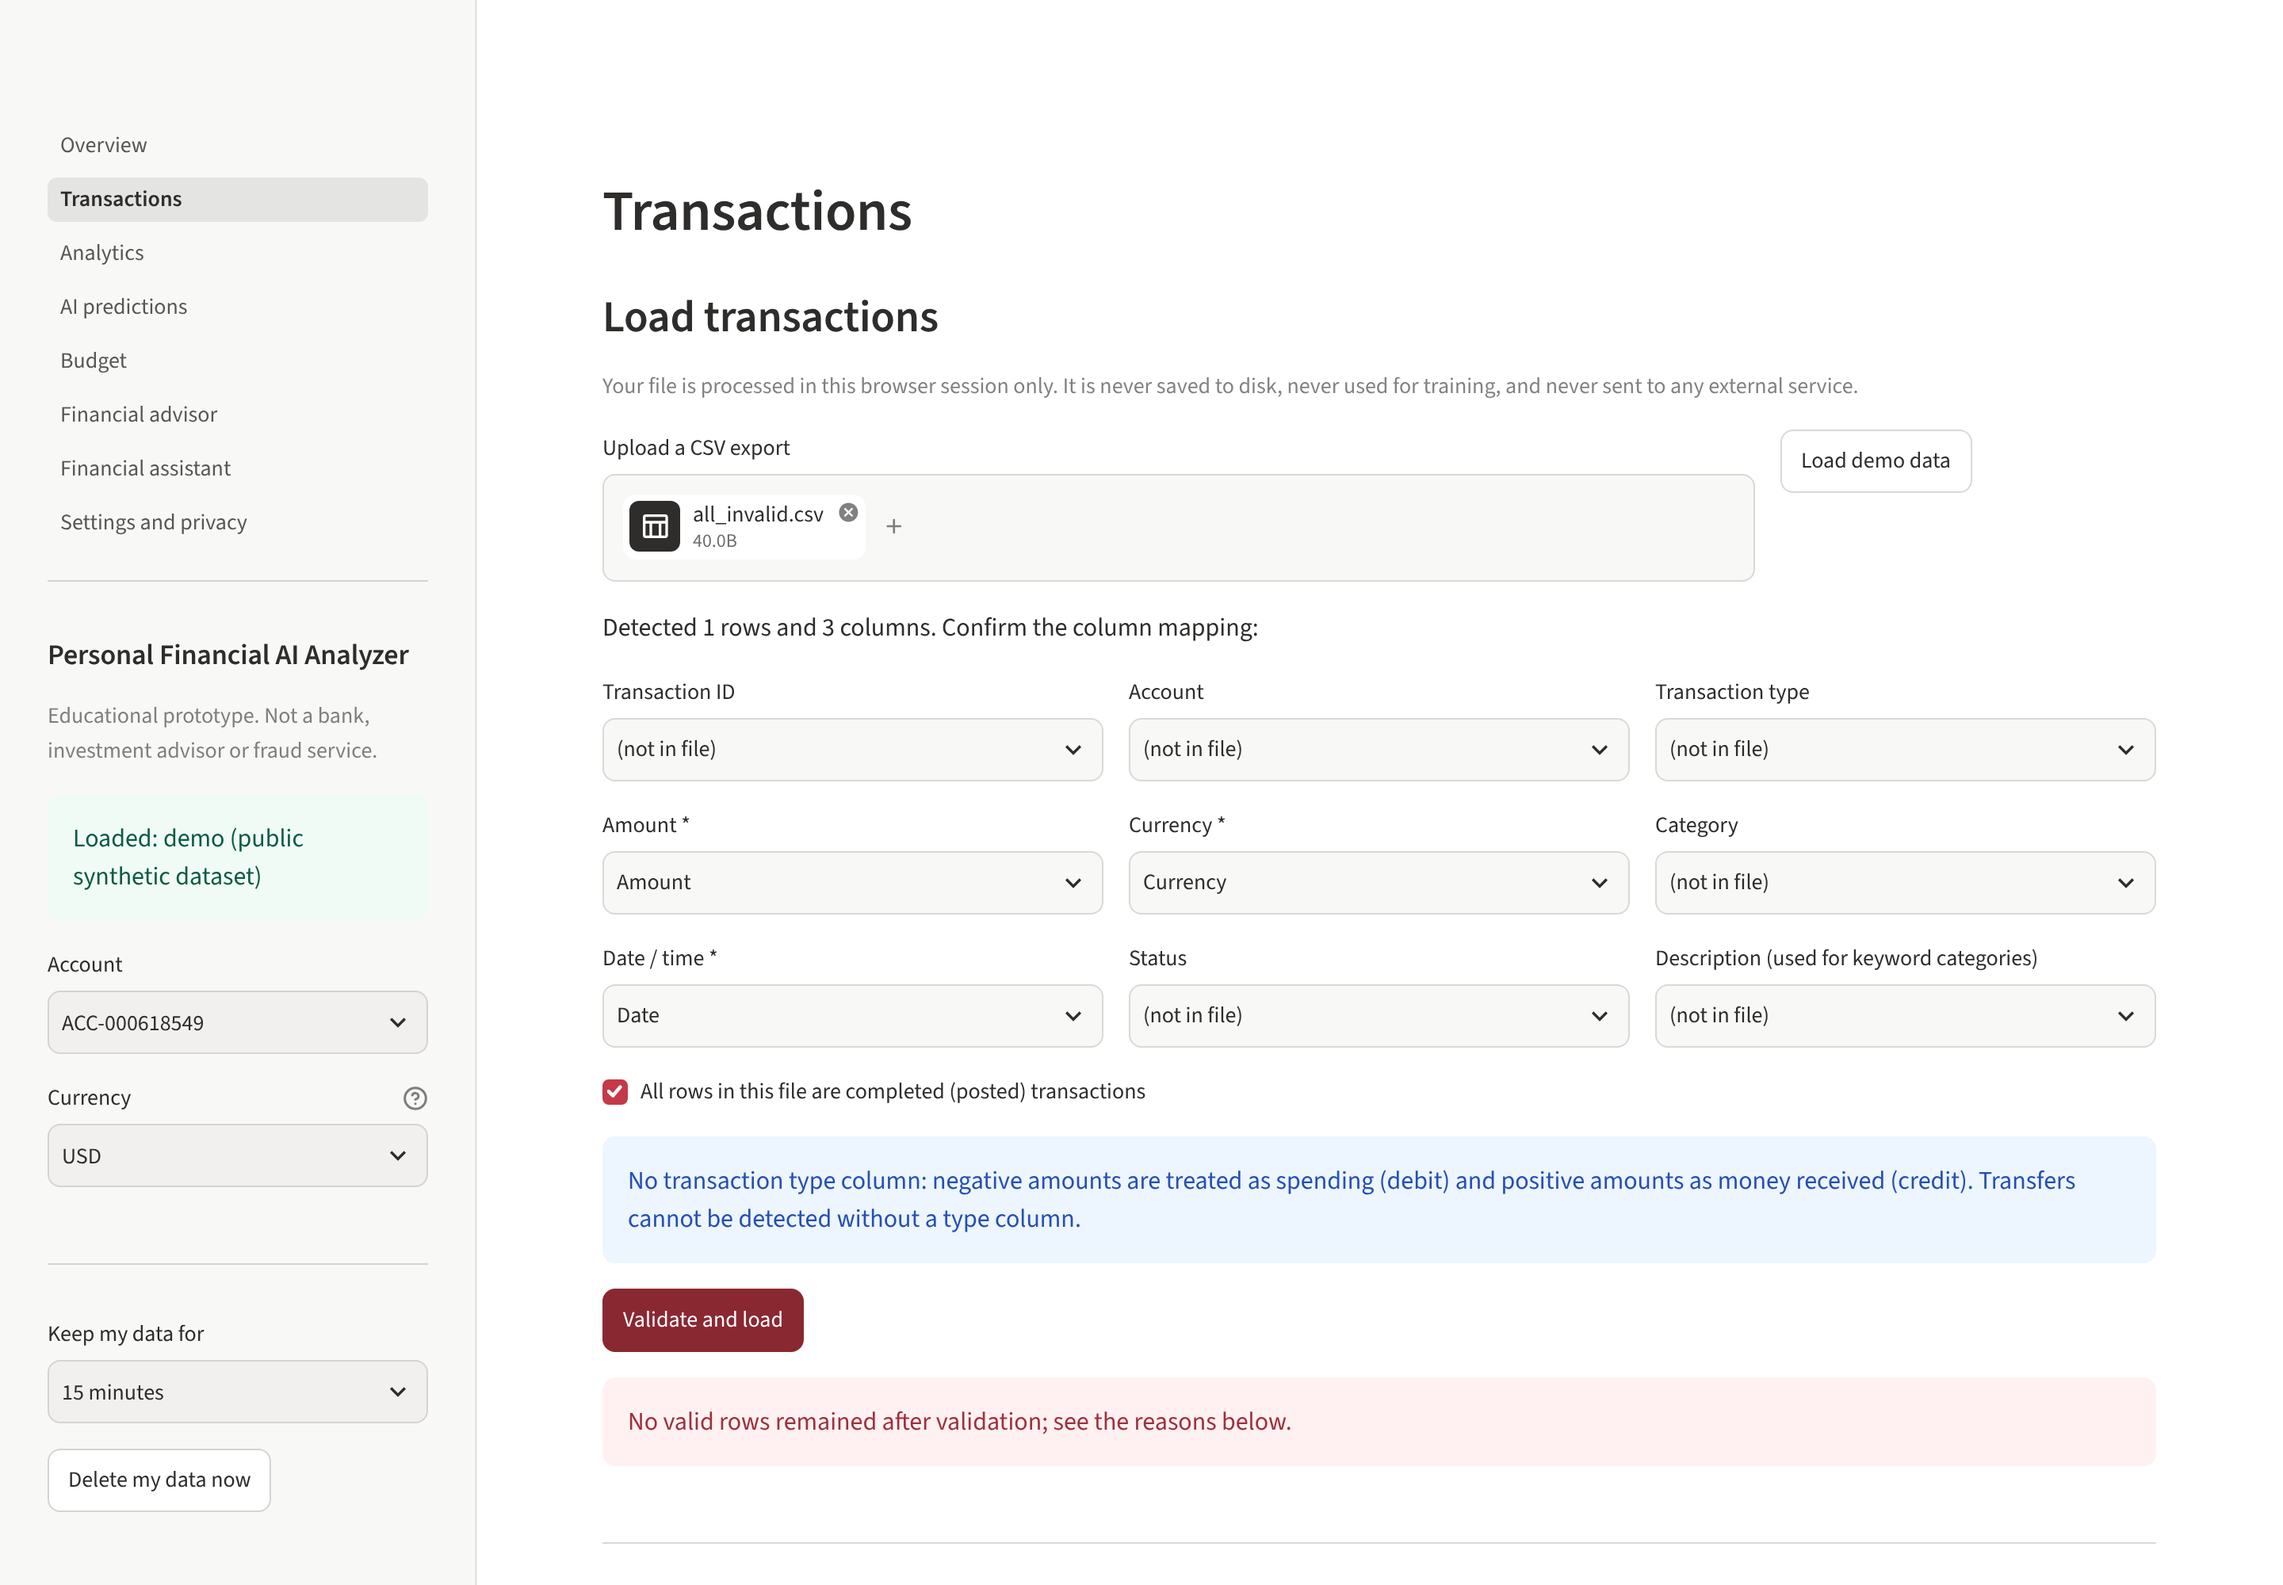
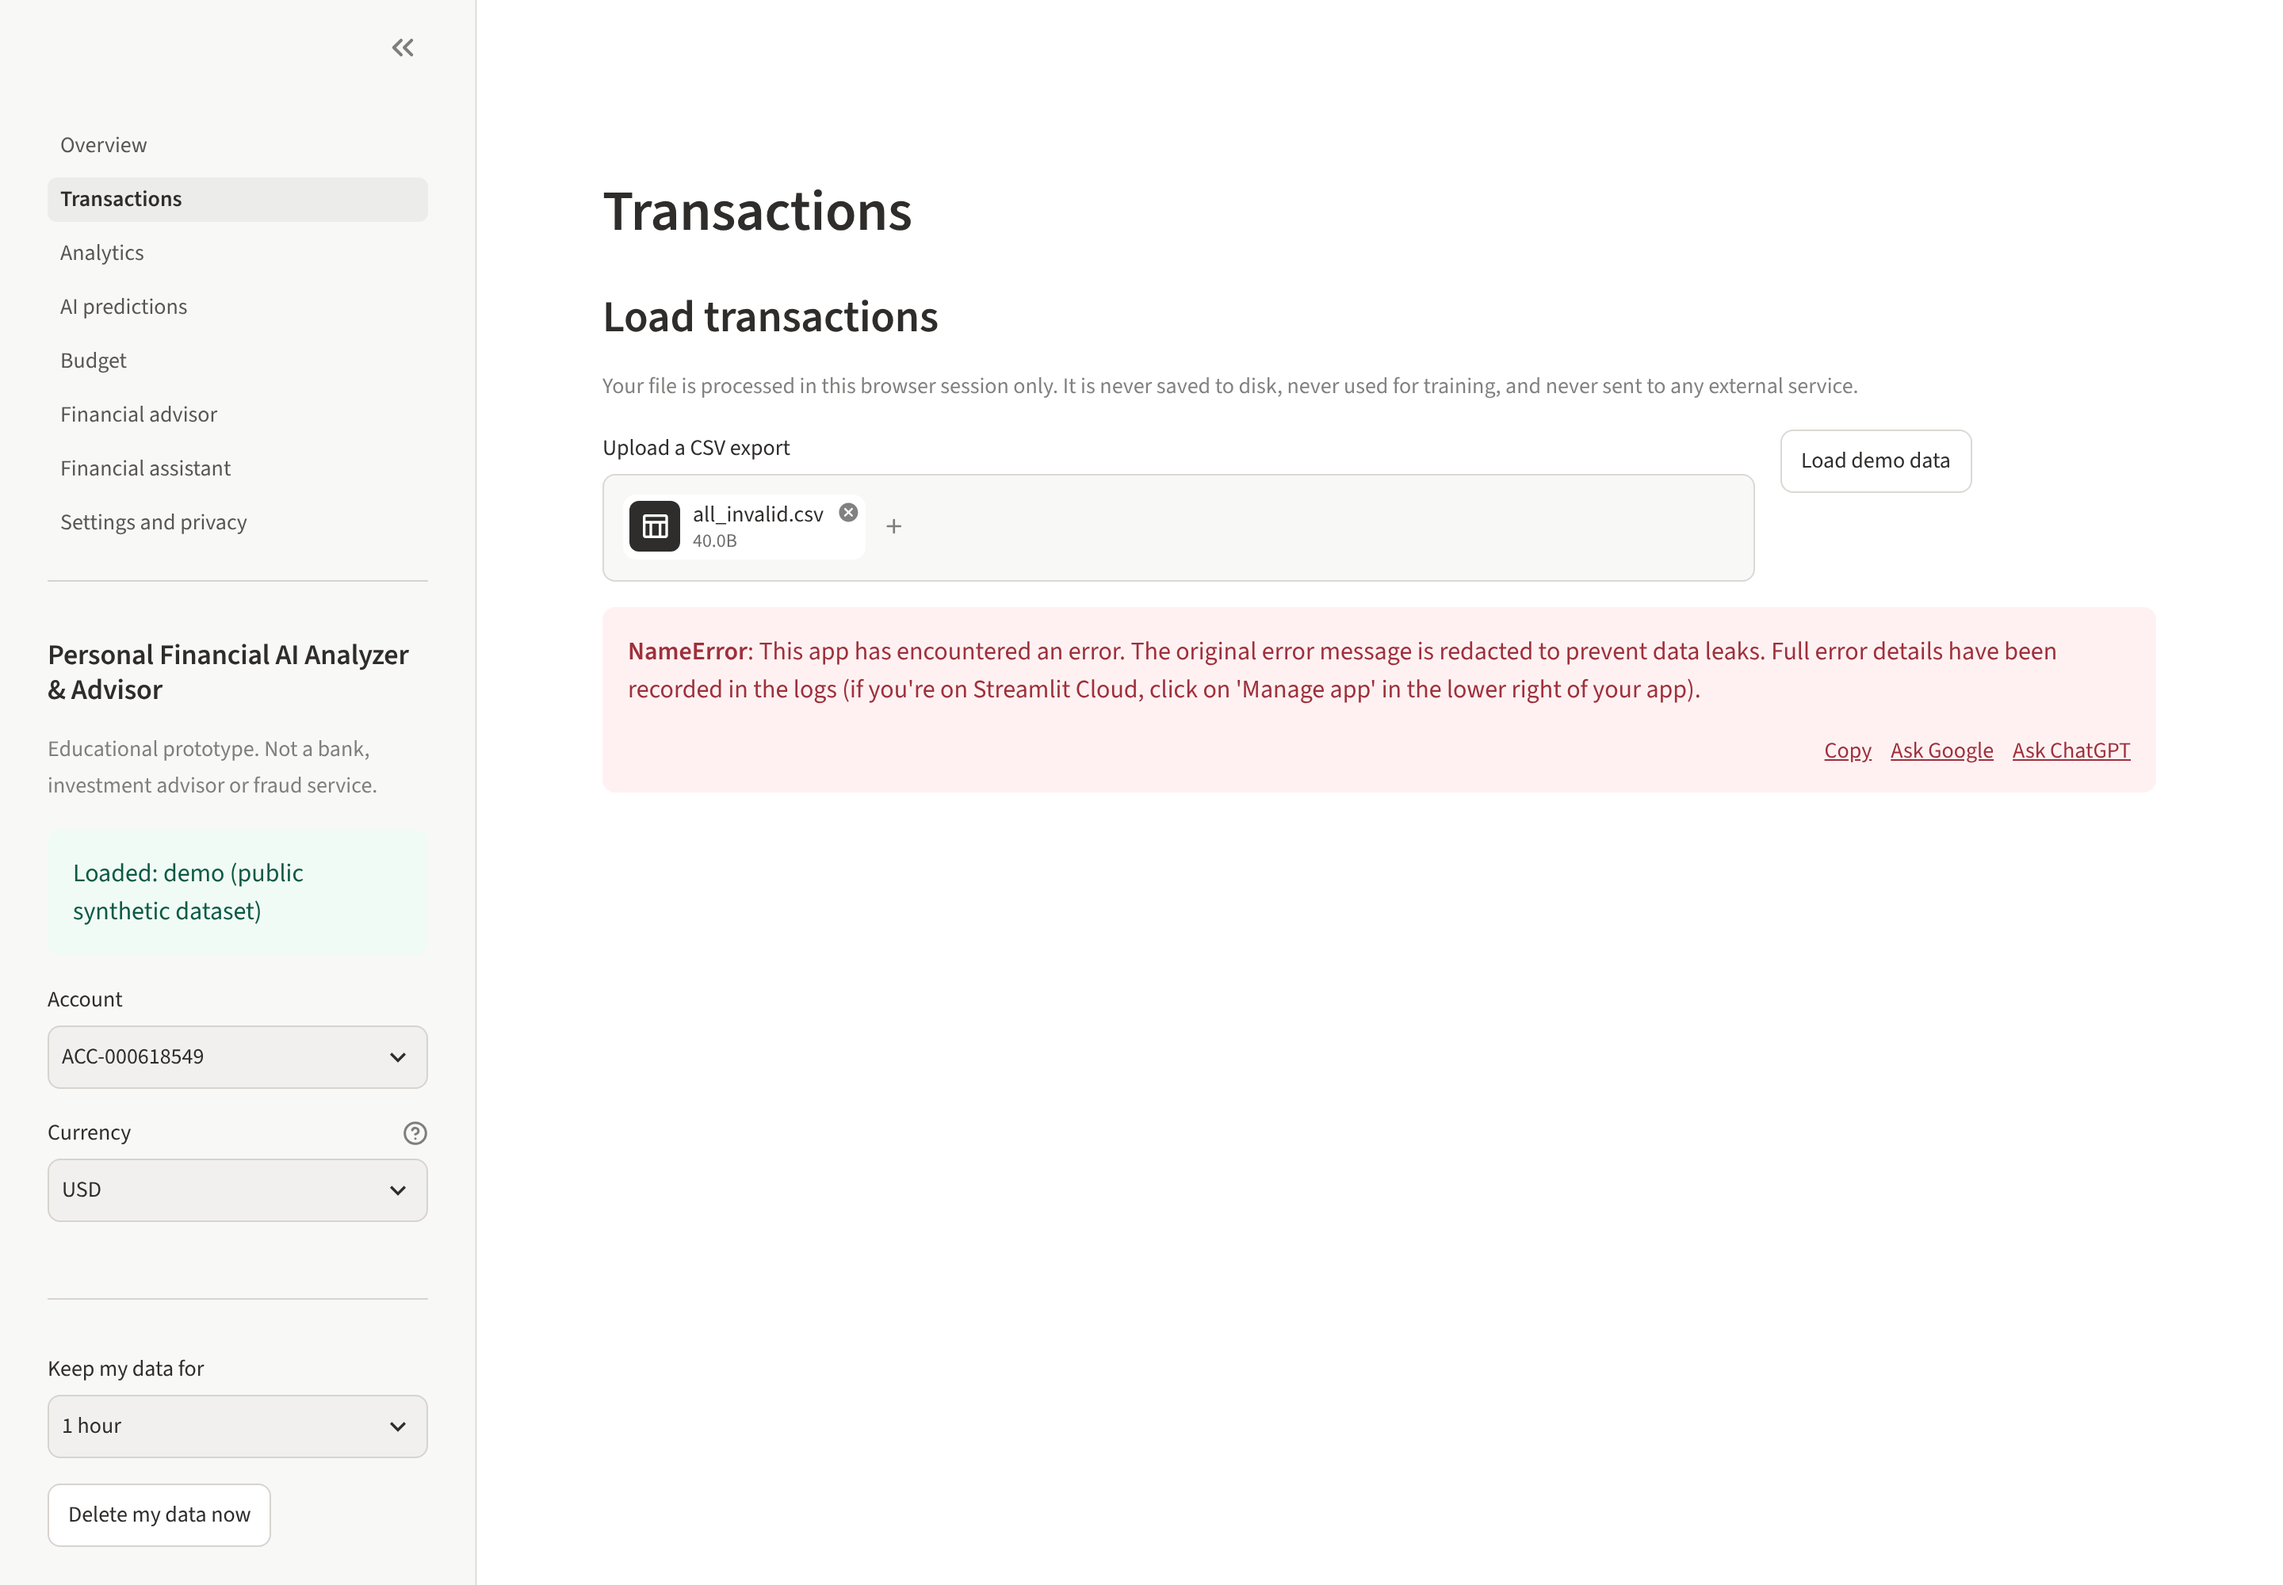
Fix M-11: upload preview crash (missing import) + upload-component regression test; lint clean
Claude-Session: https://claude.ai/code/session_012PnAi7gBw8yMiBUBLDapth

diff --git a/personal-financial-ai-analyzer/tests/integration/test_csv_upload.py b/personal-financial-ai-analyzer/tests/integration/test_csv_upload.py
@@ -89,3 +89,31 @@ def test_app_upload_path_refuses_overflowing_file(monkeypatch):
     with pytest.raises(IngestionError, match="supported range"):
         upload.load_bytes(data, suggest_mapping(["Date", "Amount", "Currency"]), "t", assume_completed=True)
     assert not stored
+
+
+UPLOAD_SCRIPT = """
+import sys, types
+sys.path.insert(0, {root!r})
+import streamlit as st
+_data = open({path!r}, 'rb').read()
+st.file_uploader = lambda *a, **k: types.SimpleNamespace(getvalue=lambda: _data, name={name!r})   # stand-in widget
+from app.utils import session
+from app.components import upload
+session.init()
+upload.render()
+"""
+
+
+@pytest.mark.parametrize("fixture,sep", [("data/samples/sample_bank_export.csv", "comma"),
+                                         ("tests/fixtures/unmapped_columns.csv", "comma")])
+def test_upload_component_previews_detects_format_and_loads(fixture, sep):
+    """Regression (master audit M-11): the upload component crashed with NameError (detect_format not
+    imported) after the preview was added; AppTest cannot drive st.file_uploader, so a stand-in returns
+    the file bytes and the REAL render() code path runs: detection caption, preview table, mapping, load."""
+    from streamlit.testing.v1 import AppTest
+    root = Path(__file__).resolve().parents[2]
+    at = AppTest.from_string(UPLOAD_SCRIPT.format(root=str(root), path=str(root / fixture), name="x.csv"),
+                             default_timeout=60).run()
+    assert not at.exception, at.exception
+    assert any(f"{sep}-separated" in m.value and "Preview of the first rows" in m.value for m in at.markdown)
+    assert len(at.dataframe) >= 1                                   # the raw preview table

diff --git a/personal-financial-ai-analyzer/app/components/upload.py b/personal-financial-ai-analyzer/app/components/upload.py
@@ -5,7 +5,7 @@ import streamlit as st
 
 from app.utils import session
 from src.analytics.aggregation import build_summaries
-from src.data.ingestion import SYNONYMS, IngestionError, ingest, read_csv_bytes, suggest_mapping
+from src.data.ingestion import SYNONYMS, IngestionError, detect_format, ingest, read_csv_bytes, suggest_mapping
 from src.data.schema import ALLOWED_CURRENCIES
 from src.utils.configuration import PROJECT_ROOT
 

diff --git a/personal-financial-ai-analyzer/tests/unit/test_assistant_advisor_intents.py b/personal-financial-ai-analyzer/tests/unit/test_assistant_advisor_intents.py
@@ -10,7 +10,6 @@ from src.advisor.savings import Goal
 from src.analytics.aggregation import build_summaries
 from src.assistant.advisor_intents import AssistantContext
 from src.assistant.response_generator import UNSUPPORTED, answer
-from src.data.validation import validate_transactions
 from tests.unit.test_advisor import MONTHS, ledger
 
 

diff --git a/personal-financial-ai-analyzer/scripts/audit/benchmark_master.py b/personal-financial-ai-analyzer/scripts/audit/benchmark_master.py
@@ -9,7 +9,6 @@ from __future__ import annotations
 
 import json
 import platform
-import statistics
 import subprocess
 import sys
 import time

diff --git a/personal-financial-ai-analyzer/KNOWN_ISSUES.md b/personal-financial-ai-analyzer/KNOWN_ISSUES.md
@@ -43,6 +43,7 @@
 | M-06 | master audit | `verify_artifacts.py` failed in a fresh clone (no dataset): it fed models from derived data only | Missing fallback | Model loading not verifiable from a clean checkout (P2, reproducibility) | Falls back to the committed demo sample (`ARTIFACT_VERIFY_INPUT=demo` forces it) | `test_artifact_verification_runs_without_derived_data` (fails before, passes after) |
 | M-07 | master audit | Fresh clones 4 and 5 were set up with CPython 3.13 (`python3` on the container), not the pinned 3.12 | Audit procedure: wrong interpreter invoked; `setup_environment.py` only warns | Evidence ran on an unpinned interpreter (tests still passed) (P3) | Final fresh clone run with `python3.12`, as documented | `reports/final_master_audit/TEST_RESULTS.md` |
 | M-08 | master audit | CSV uploads had no raw preview and no encoding/delimiter handling: semicolon or cp1252 exports failed | Not implemented | Real bank exports rejected (P2) | `detect_format` (UTF-8/BOM/cp1252/latin-1; `, ; tab \|`), preview, import summary | `test_delimiter_is_detected`, `test_encodings_and_bom_are_handled`, `test_transactions_import_summary_counts` |
+| M-11 | master audit | Uploading a CSV crashed the Transactions page (`NameError: detect_format`) | When adding the preview, my import edit targeted a line ruff had already rewritten; AppTests cannot drive `st.file_uploader`, so unit and AppTests passed | Upload unusable (P1); caught by the real-browser run (8/21) before delivery | Import fixed | `test_upload_component_previews_detects_format_and_loads` (stand-in uploader runs the real `render()`; fails before, passes after); browser re-run |
 
 Audit-method corrections: A-07 (determinism now compared by content, not IPC bytes) and A-11 (stale screenshot removed). Details: `reports/final_audit/KNOWN_ISSUES.md`.
 

diff --git a/personal-financial-ai-analyzer/reports/final_master_audit/DEFECT_REGISTER.md b/personal-financial-ai-analyzer/reports/final_master_audit/DEFECT_REGISTER.md
@@ -14,6 +14,7 @@ All defects across the project. Earlier phases are kept in full in [`KNOWN_ISSUE
 | M-08 | P2 (gap) | No raw preview, encoding or delimiter handling for CSV uploads (semicolon or cp1252 exports failed) | not implemented | `detect_format` (UTF-8, BOM, cp1252, latin-1; `, ; tab \|`), preview, import summary | `test_delimiter_is_detected[4]`, `test_encodings_and_bom_are_handled`, `test_transactions_import_summary_counts` | Fixed |
 | M-09 | P2 (gap) | No Advisor pillar, Settings page, analyzer insights or extended assistant intents | out of the original scope | `src/advisor`, `insights.py`, 2 pages, 8 intents | `test_advisor.py`, `test_insights.py`, `test_assistant_advisor_intents.py`, AppTests, browser tasks 17–22 | Fixed |
 | M-10 | P3 | Docs whose names differed only in letter case would collide on Windows if the required uppercase names were added | naming | renamed to the uppercase names; every reference updated | inventory 167/174 (7 merged by design) | Fixed |
+| M-11 | **P1** | CSV upload crashed (`NameError: detect_format`) after the preview was added | import edit missed (ruff had rewritten that line); AppTests cannot drive the file widget | import fixed | `test_upload_component_previews_detects_format_and_loads` (fails before, passes after); real-browser run 8/21 → re-run | Fixed |
 
 ## Earlier defects (fixed; details in `KNOWN_ISSUES.md`)
 
